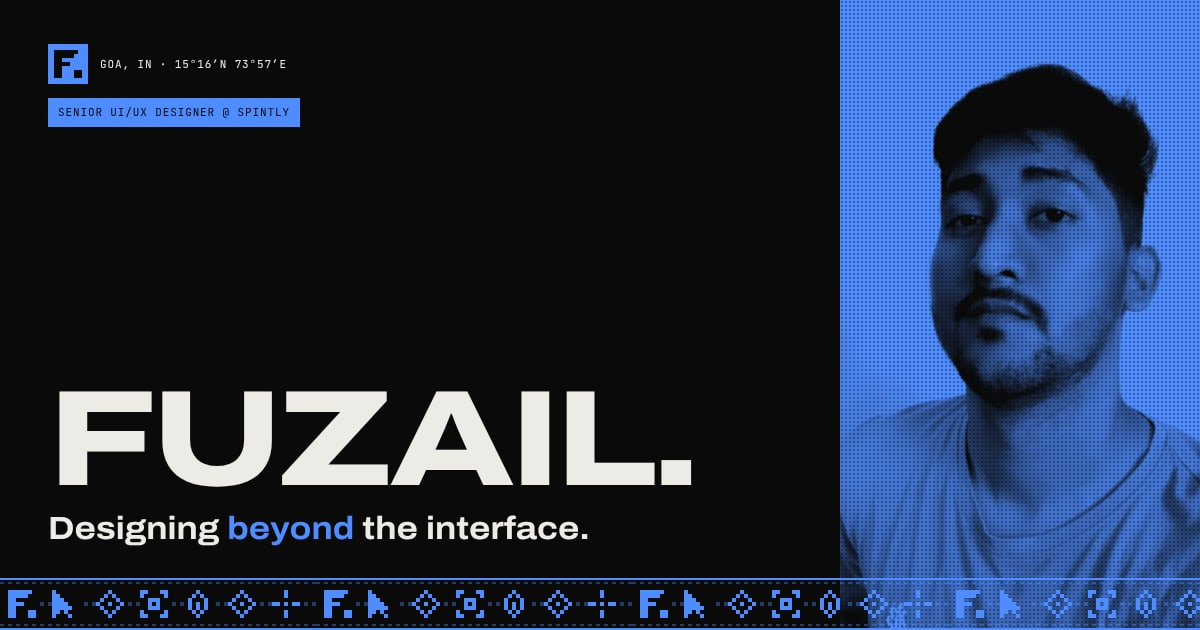
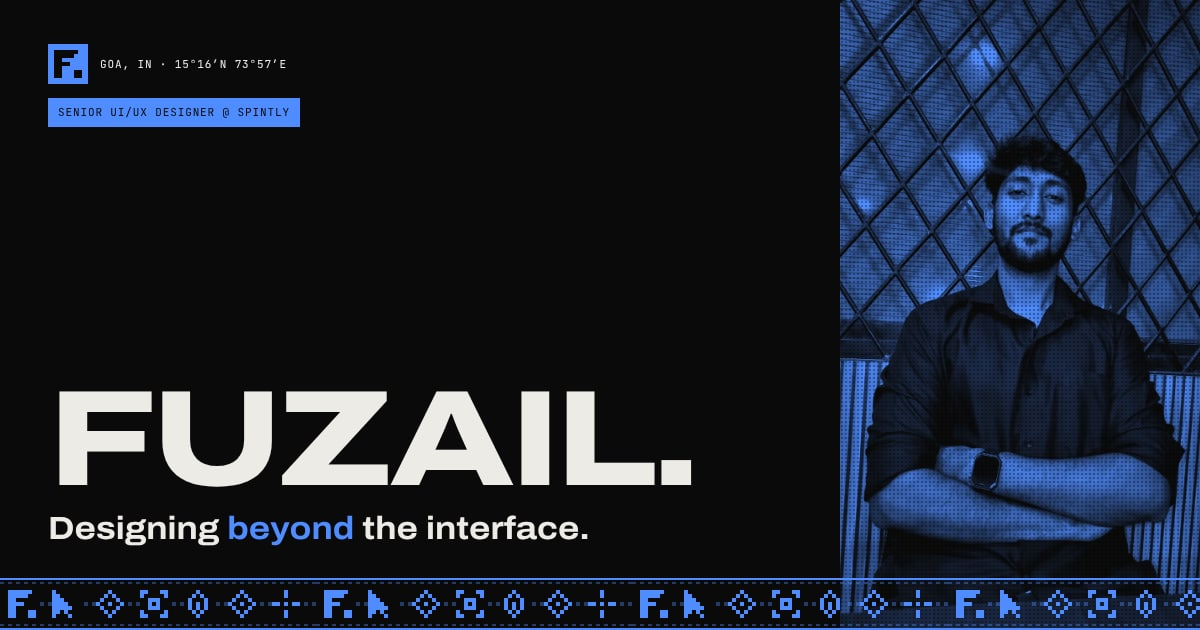
Use new portrait photo in the blue duotone
Claude-Session: https://claude.ai/code/session_014u3kqBKNZwM2iQP7AL4Yyw

Changed region(s): [[0.6783, 0.0, 1.0, 1.0]]

diff --git a/README.md b/README.md
@@ -59,7 +59,7 @@ cd tools && npm install
 npm run render     # re-render the chrome 3D objects (Three.js in headless Chromium)
 npm run images     # re-optimise source artwork into responsive WebP
 node render-icons.mjs
-node duotone.mjs   # blue duotone portrait from assets/source/img-2.png
+node duotone.mjs   # blue duotone portrait from assets/source/portrait.webp
 node render-og.mjs # needs `npm run dev` running in the repo root
 ```
 
